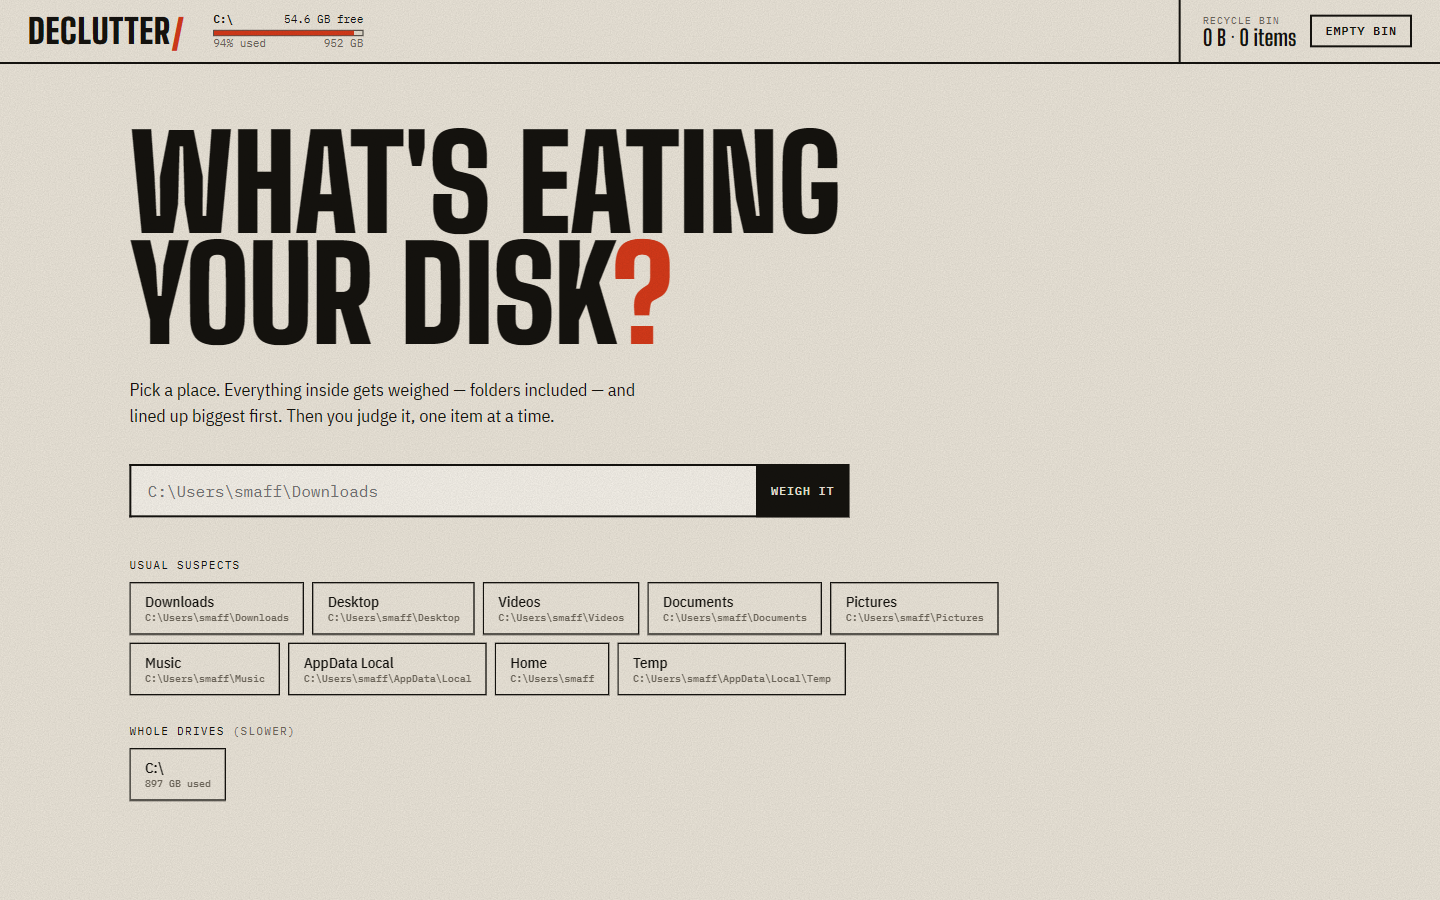
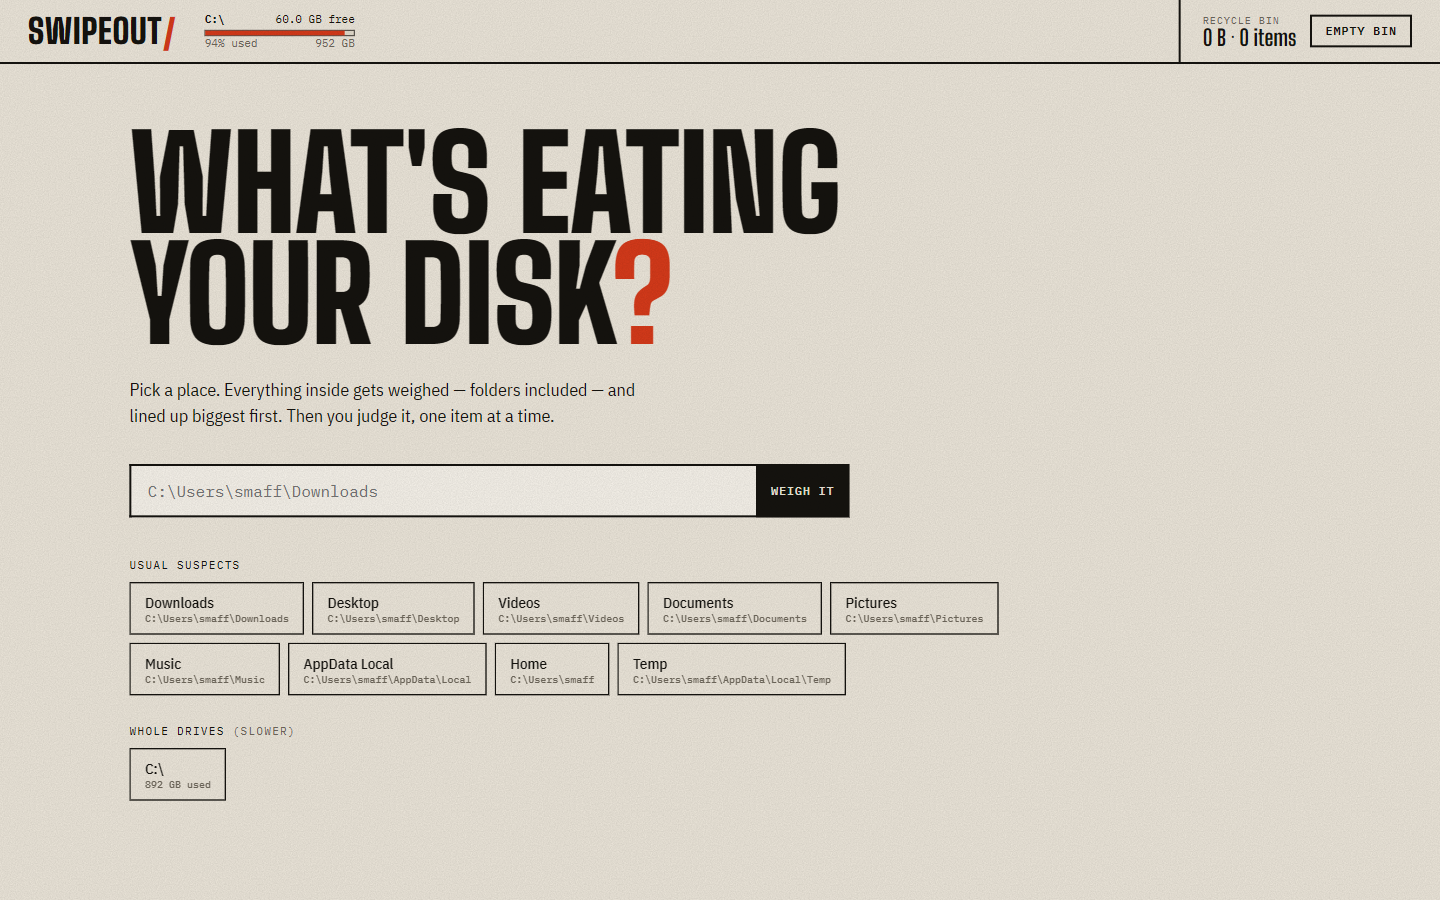
Rename to Swipeout

diff --git a/static/app.js b/static/app.js
@@ -13,7 +13,7 @@ const S = {
   sel: 0,
   showKept: false,
   pending: new Map(),          // key -> {item, timer}
-  kept: new Set(JSON.parse(localStorage.getItem("declutter.kept") || "[]")),
+  kept: new Set(JSON.parse(localStorage.getItem("swipeout.kept") || "[]")),
   undo: [],
   freed: { pc: 0, phone: 0 },
   polling: null,
@@ -39,7 +39,7 @@ const fmtDate = (t) => t ? new Date(t * 1000).toLocaleDateString(undefined, { ye
 const ext = (it) => it.isDir ? "" : it.ext || "";
 
 async function api(path, body) {
-  const opts = body === undefined ? {} : { method: "POST", headers: { "Content-Type": "application/json", "X-Declutter": "1" }, body: JSON.stringify(body) };
+  const opts = body === undefined ? {} : { method: "POST", headers: { "Content-Type": "application/json", "X-Swipeout": "1" }, body: JSON.stringify(body) };
   const res = await fetch(path, opts);
   const data = await res.json().catch(() => ({}));
   if (!res.ok) throw new Error(data.error || res.statusText);
@@ -215,7 +215,7 @@ function current() {
 }
 
 function persistKept() {
-  localStorage.setItem("declutter.kept", JSON.stringify([...S.kept]));
+  localStorage.setItem("swipeout.kept", JSON.stringify([...S.kept]));
 }
 
 /* ---------------- render ---------------- */

diff --git a/static/index.html b/static/index.html
@@ -2,7 +2,7 @@
 <html lang="en">
 <head>
 <meta charset="utf-8">
-<title>Declutter — Windows Swipe Storage Cleaner</title>
+<title>Swipeout — Windows Swipe Storage Cleaner</title>
 <meta name="viewport" content="width=device-width, initial-scale=1">
 <link rel="preconnect" href="https://fonts.googleapis.com">
 <link rel="preconnect" href="https://fonts.gstatic.com" crossorigin>
@@ -11,7 +11,7 @@
 </head>
 <body>
 <header class="top">
-  <div class="mark" title="Back to start" id="homeBtn">DECLUTTER<span>/</span></div>
+  <div class="mark" title="Back to start" id="homeBtn">SWIPEOUT<span>/</span></div>
   <div class="drives" id="drives"></div>
   <div class="bin" id="binBox">
     <div class="bin-text">

diff --git a/server.py b/server.py
@@ -1,4 +1,4 @@
-"""Declutter - local server. Run: python server.py"""
+"""Swipeout - local server. Run: python server.py"""
 import ctypes
 import heapq
 import json
@@ -22,7 +22,7 @@ try:
 except ImportError:  # pywin32 missing: PC-only mode
     phone = None
 
-PORT = int(os.environ.get("DECLUTTER_PORT", "8765"))
+PORT = int(os.environ.get("SWIPEOUT_PORT", "8765"))
 STATIC = os.path.join(os.path.dirname(os.path.abspath(__file__)), "static")
 HOME = os.path.expanduser("~")
 TOP_FILES = 500
@@ -412,7 +412,7 @@ class Handler(BaseHTTPRequestHandler):
         return self._static(route)
 
     def do_POST(self):
-        if not self._host_ok() or self.headers.get("X-Declutter") != "1":
+        if not self._host_ok() or self.headers.get("X-Swipeout") != "1":
             return self._json({"error": "forbidden"}, 403)
         route = urlparse(self.path).path
         data = self._body()
@@ -569,7 +569,7 @@ def main():
     server = ThreadingHTTPServer(("127.0.0.1", PORT), Handler)
     server.daemon_threads = True
     url = f"http://127.0.0.1:{PORT}/"
-    print(f"Declutter running at {url}  (Ctrl+C to stop)")
+    print(f"Swipeout running at {url}  (Ctrl+C to stop)")
     if "--no-browser" not in sys.argv:
         threading.Timer(0.6, lambda: webbrowser.open(url)).start()
     try:

diff --git a/phone.py b/phone.py
@@ -16,7 +16,7 @@ except Exception:  # noqa: BLE001 - comtypes missing or WPD unavailable: Shell-o
 
 PREFIX = "mtp:"
 THIS_PC = 17
-PREVIEW_DIR = os.path.join(tempfile.gettempdir(), "declutter-preview")
+PREVIEW_DIR = os.path.join(tempfile.gettempdir(), "swipeout-preview")
 
 
 def is_phone(path):

diff --git a/README.md b/README.md
@@ -1,16 +1,16 @@
-# Declutter
+# Swipeout
 
 **Windows Swipe Storage Cleaner**
 
 Swipe Cleaner for iPhone, but for your Windows PC — and free, open source, no subscription, no tracking, runs 100% locally.
 
-![Declutter home](docs/screenshot-home.png)
+![Swipeout home](docs/screenshot-home.png)
 
 ## Why
 
-Windows Explorer won't tell you how big a folder is. So the 40 GB eating your disk hides three levels deep while you guess. Declutter weighs everything — folders included — lines it up biggest first, and lets you judge it one item at a time: left to bin, right to keep, like a dating app for your own files.
+Windows Explorer won't tell you how big a folder is. So the 40 GB eating your disk hides three levels deep while you guess. Swipeout weighs everything — folders included — lines it up biggest first, and lets you judge it one item at a time: left to bin, right to keep, like a dating app for your own files.
 
-![Declutter triage view](docs/screenshot-triage.png)
+![Swipeout triage view](docs/screenshot-triage.png)
 
 ## Features
 
@@ -45,19 +45,19 @@ Windows Explorer won't tell you how big a folder is. So the 40 GB eating your di
 Requires **Windows** and **Python 3** (tested on 3.13).
 
 ```sh
-git clone https://github.com/smaffan21/declutter.git
-cd declutter
+git clone https://github.com/smaffan21/swipeout.git
+cd swipeout
 pip install -r requirements.txt   # optional — only for phone support
 python server.py
 ```
 
-Or just double-click `Declutter.bat`. Your browser opens to http://127.0.0.1:8765 — pick a folder or drive and start swiping.
+Or just double-click `Swipeout.bat`. Your browser opens to http://127.0.0.1:8765 — pick a folder or drive and start swiping.
 
-Change the port with `DECLUTTER_PORT=9000 python server.py`.
+Change the port with `SWIPEOUT_PORT=9000 python server.py`.
 
 ## Phones over USB
 
-Declutter can triage an Android phone plugged in over USB:
+Swipeout can triage an Android phone plugged in over USB:
 
 1. Unlock the phone and set the USB connection to **File Transfer / MTP**.
 2. It shows up in the app next to your drives. Scan and swipe like any other folder.
@@ -65,7 +65,7 @@ Declutter can triage an Android phone plugged in over USB:
 Two honest warnings:
 
 - **Phone deletes are permanent.** There is no Recycle Bin over MTP. `Z` still cancels a delete during the 4-second countdown, but once it fires the file is gone.
-- **Samsung Secure Folder and app-private data aren't reachable over USB.** That's Android's sandbox doing its job, not a bug. Declutter shows exactly what Windows can see.
+- **Samsung Secure Folder and app-private data aren't reachable over USB.** That's Android's sandbox doing its job, not a bug. Swipeout shows exactly what Windows can see.
 
 ## Safety and privacy
 
